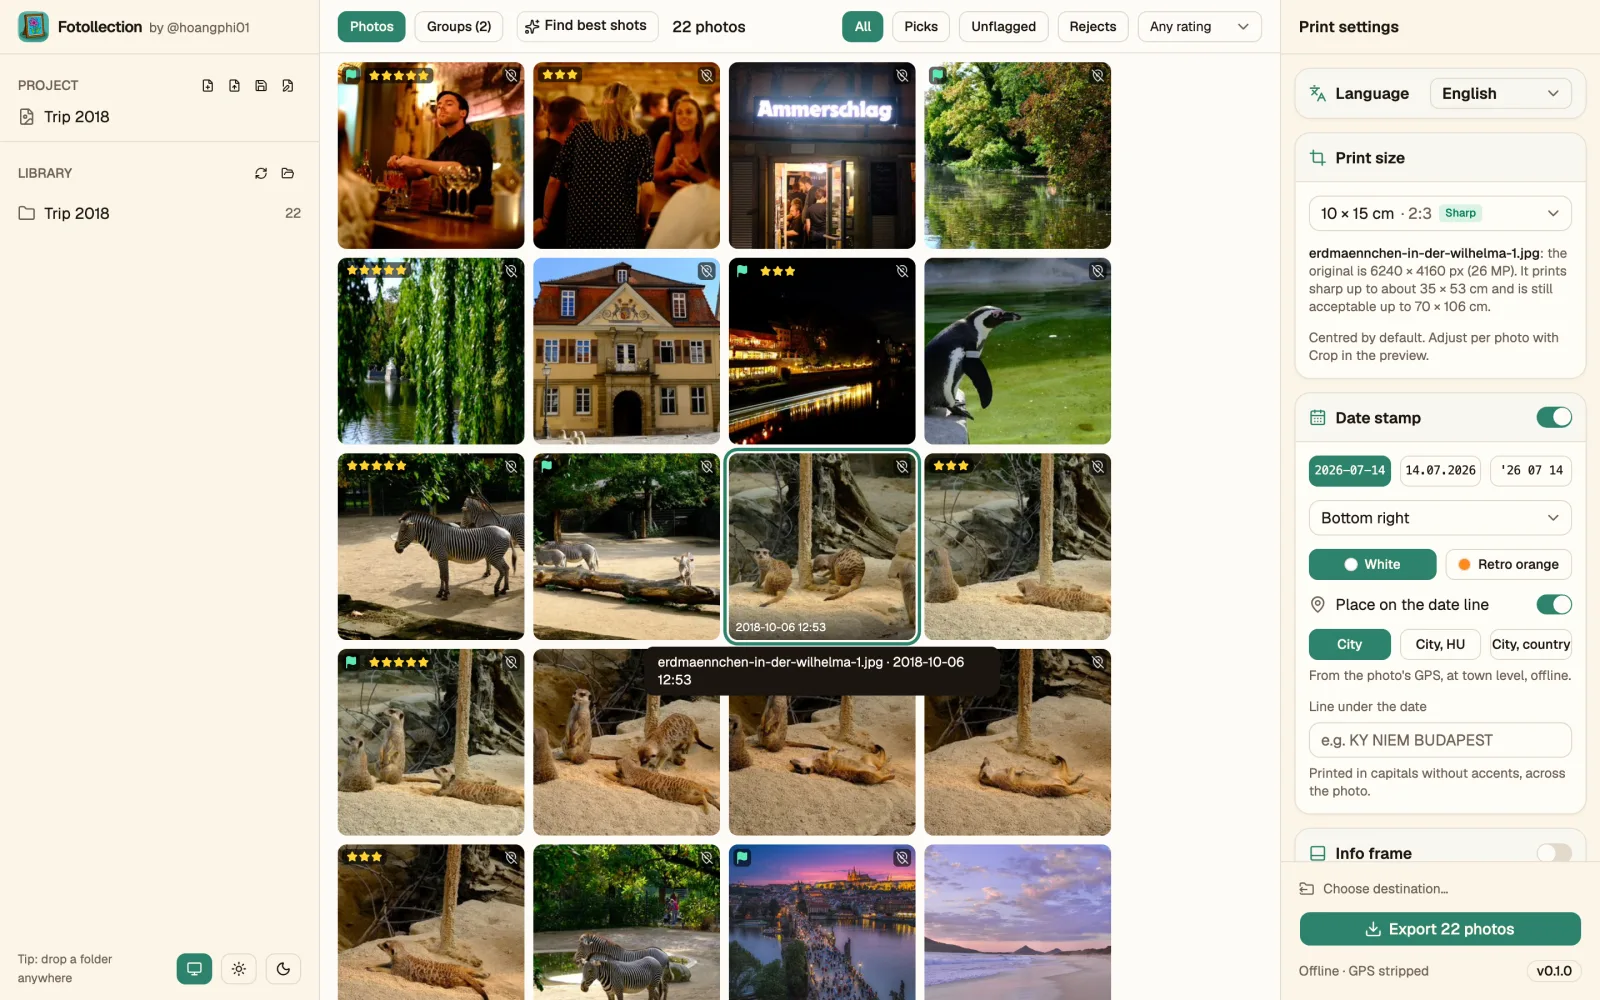
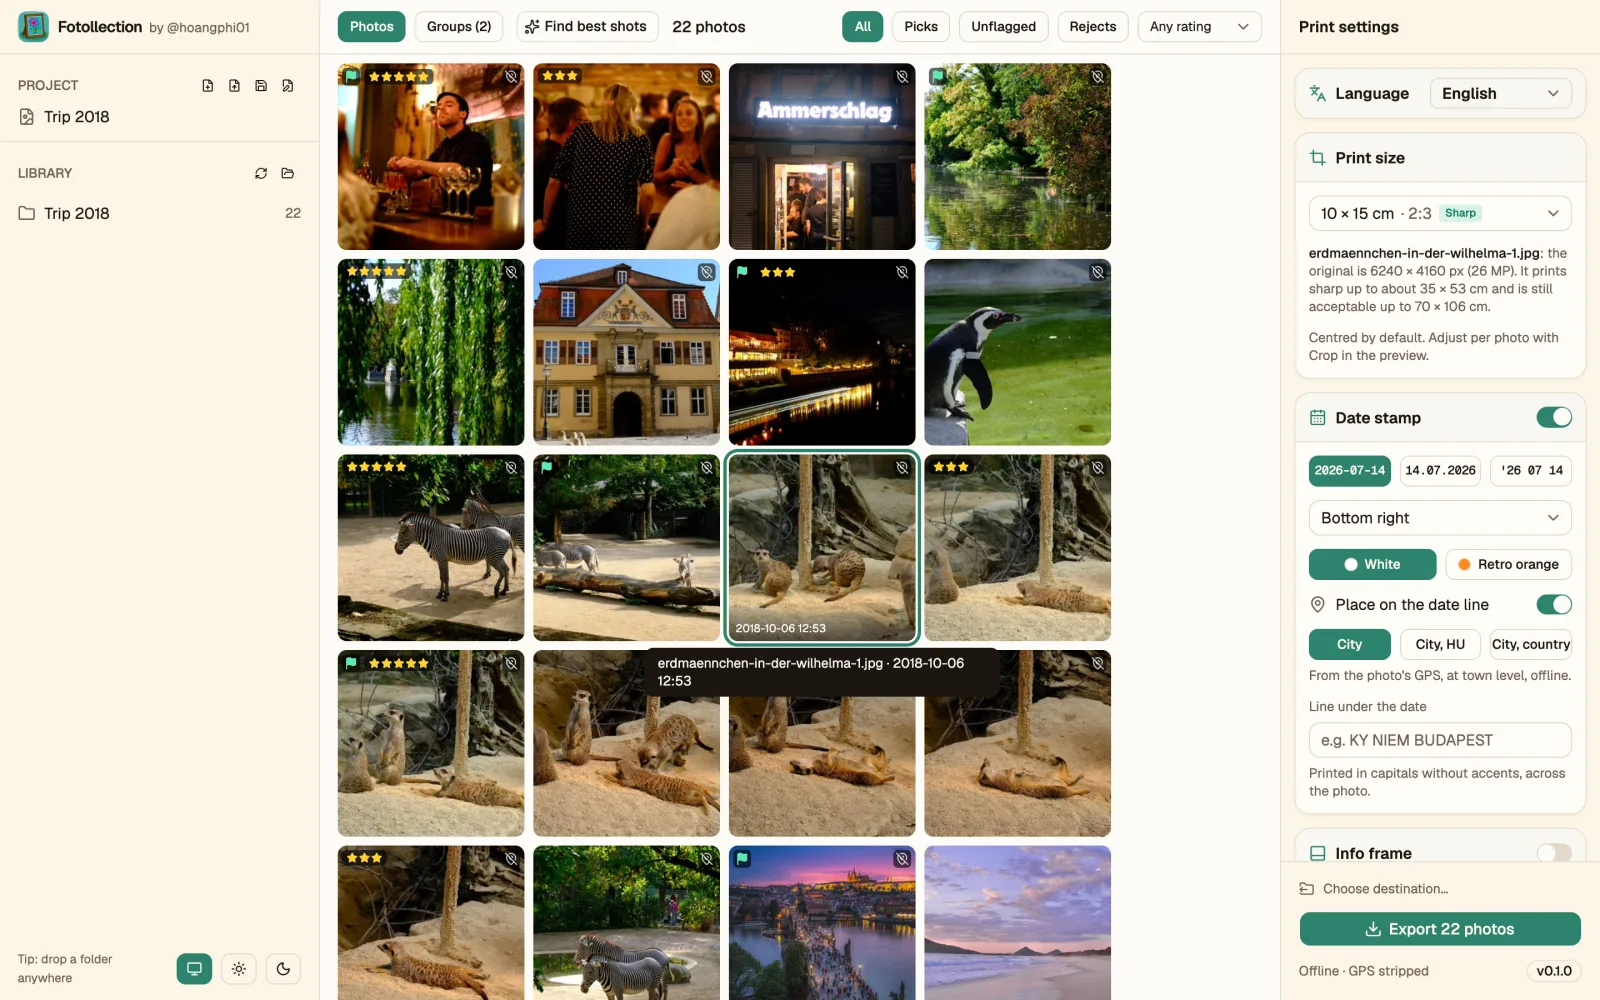
fix(ui): align the toolbar with the column headers [FR-052]
The toolbar was 52 px (36 px buttons + 8 px padding) against 48 px
headers in the library and settings columns. Padding 6 px and a 49 px
minimum (48 + its own border) put all three header lines on the same
row, in light and dark.

diff --git a/ui/src/app.tsx b/ui/src/app.tsx
@@ -84,7 +84,7 @@ export function App() {
           <>
             {/* Sized by the space between the sidebars, not the window: labels collapse to
                 icons first, then the filters wrap to a second row. */}
-            <div className="@container flex min-h-12 flex-wrap items-center gap-x-3 gap-y-2 border-b px-4 py-2 text-sm">
+            <div className="@container flex min-h-[49px] flex-wrap items-center gap-x-3 gap-y-2 border-b px-4 py-1.5 text-sm">
               <ToggleGroup
                 type="single"
                 variant="outline"

diff --git a/CHANGELOG.md b/CHANGELOG.md
@@ -20,6 +20,7 @@ The format is based on [Keep a Changelog](https://keepachangelog.com/en/1.1.0/),
 - Dates and numbers in the interface use the bundled Geist Mono, so Windows shows them exactly like macOS (the rest of the interface already used the bundled Geist).
 - With the logo size slider focused, ← → changed the photo as well as the size; now the slider keeps the keys, and clicking the photo hands them back to browsing.
 - The date formats no longer overflow their buttons.
+- The toolbar above the photos is now exactly as tall as the library and settings headers, so the three header lines line up.
 
 ## [0.2.0] - 2026-10-24
 
